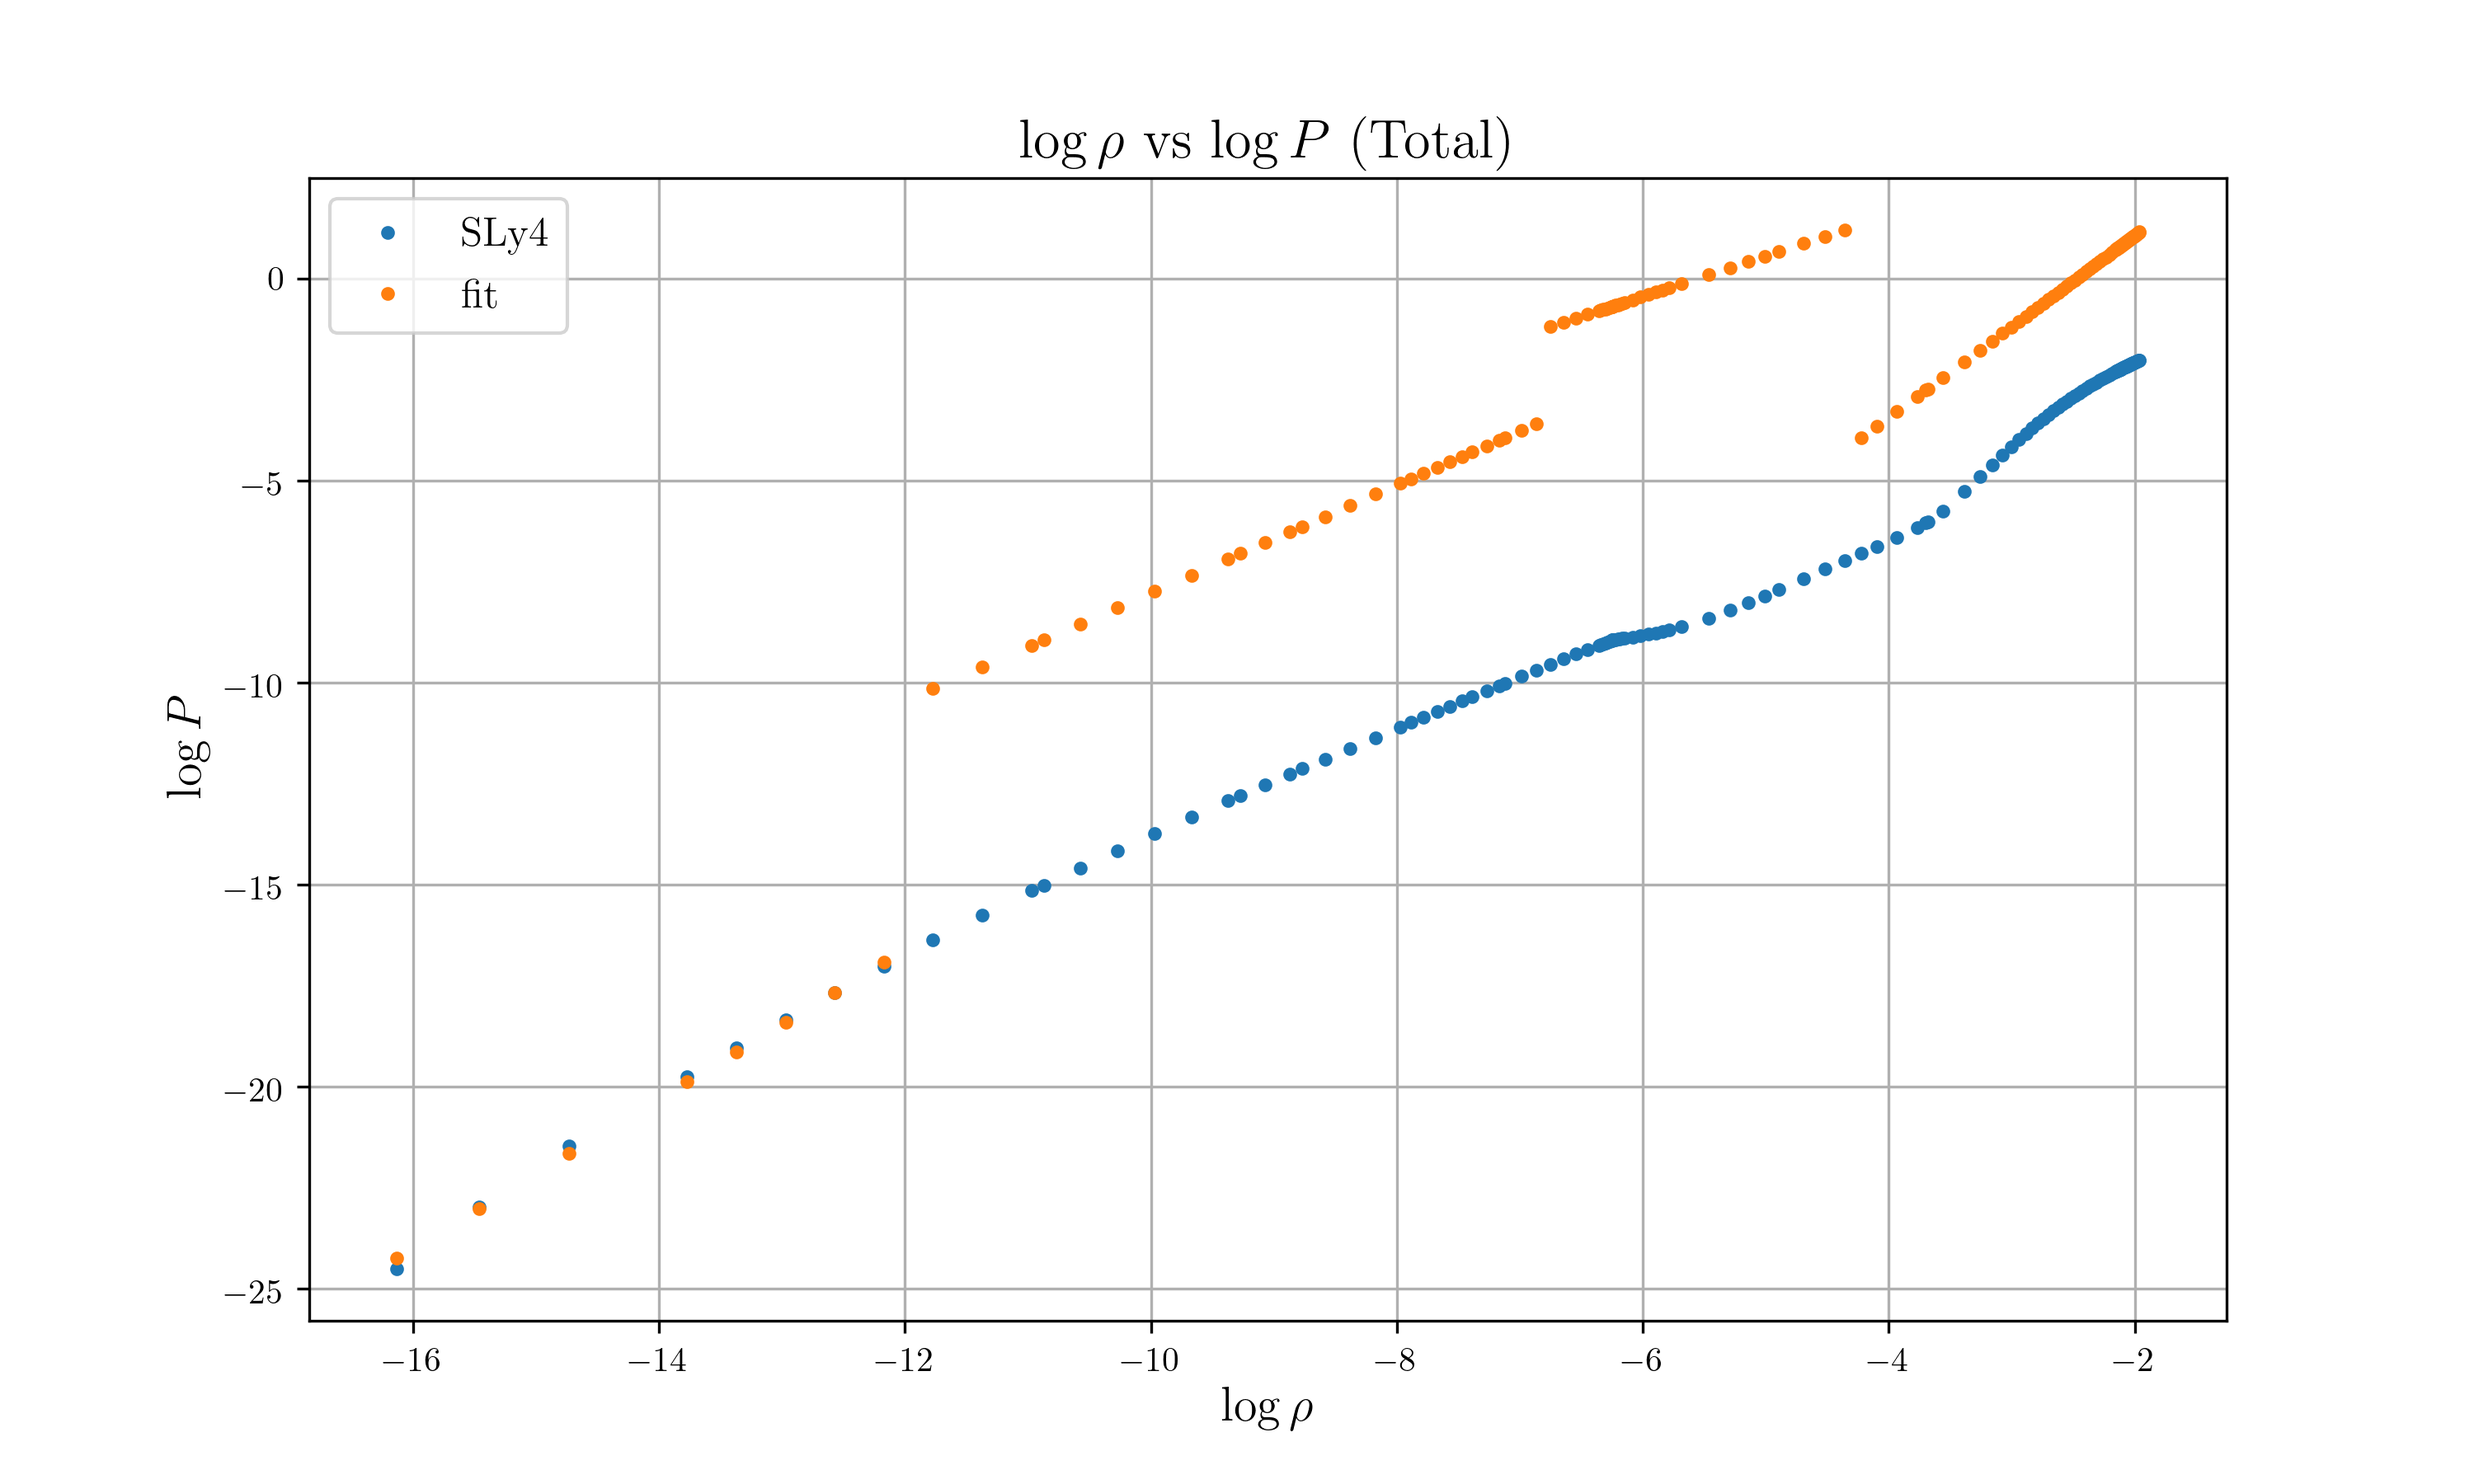
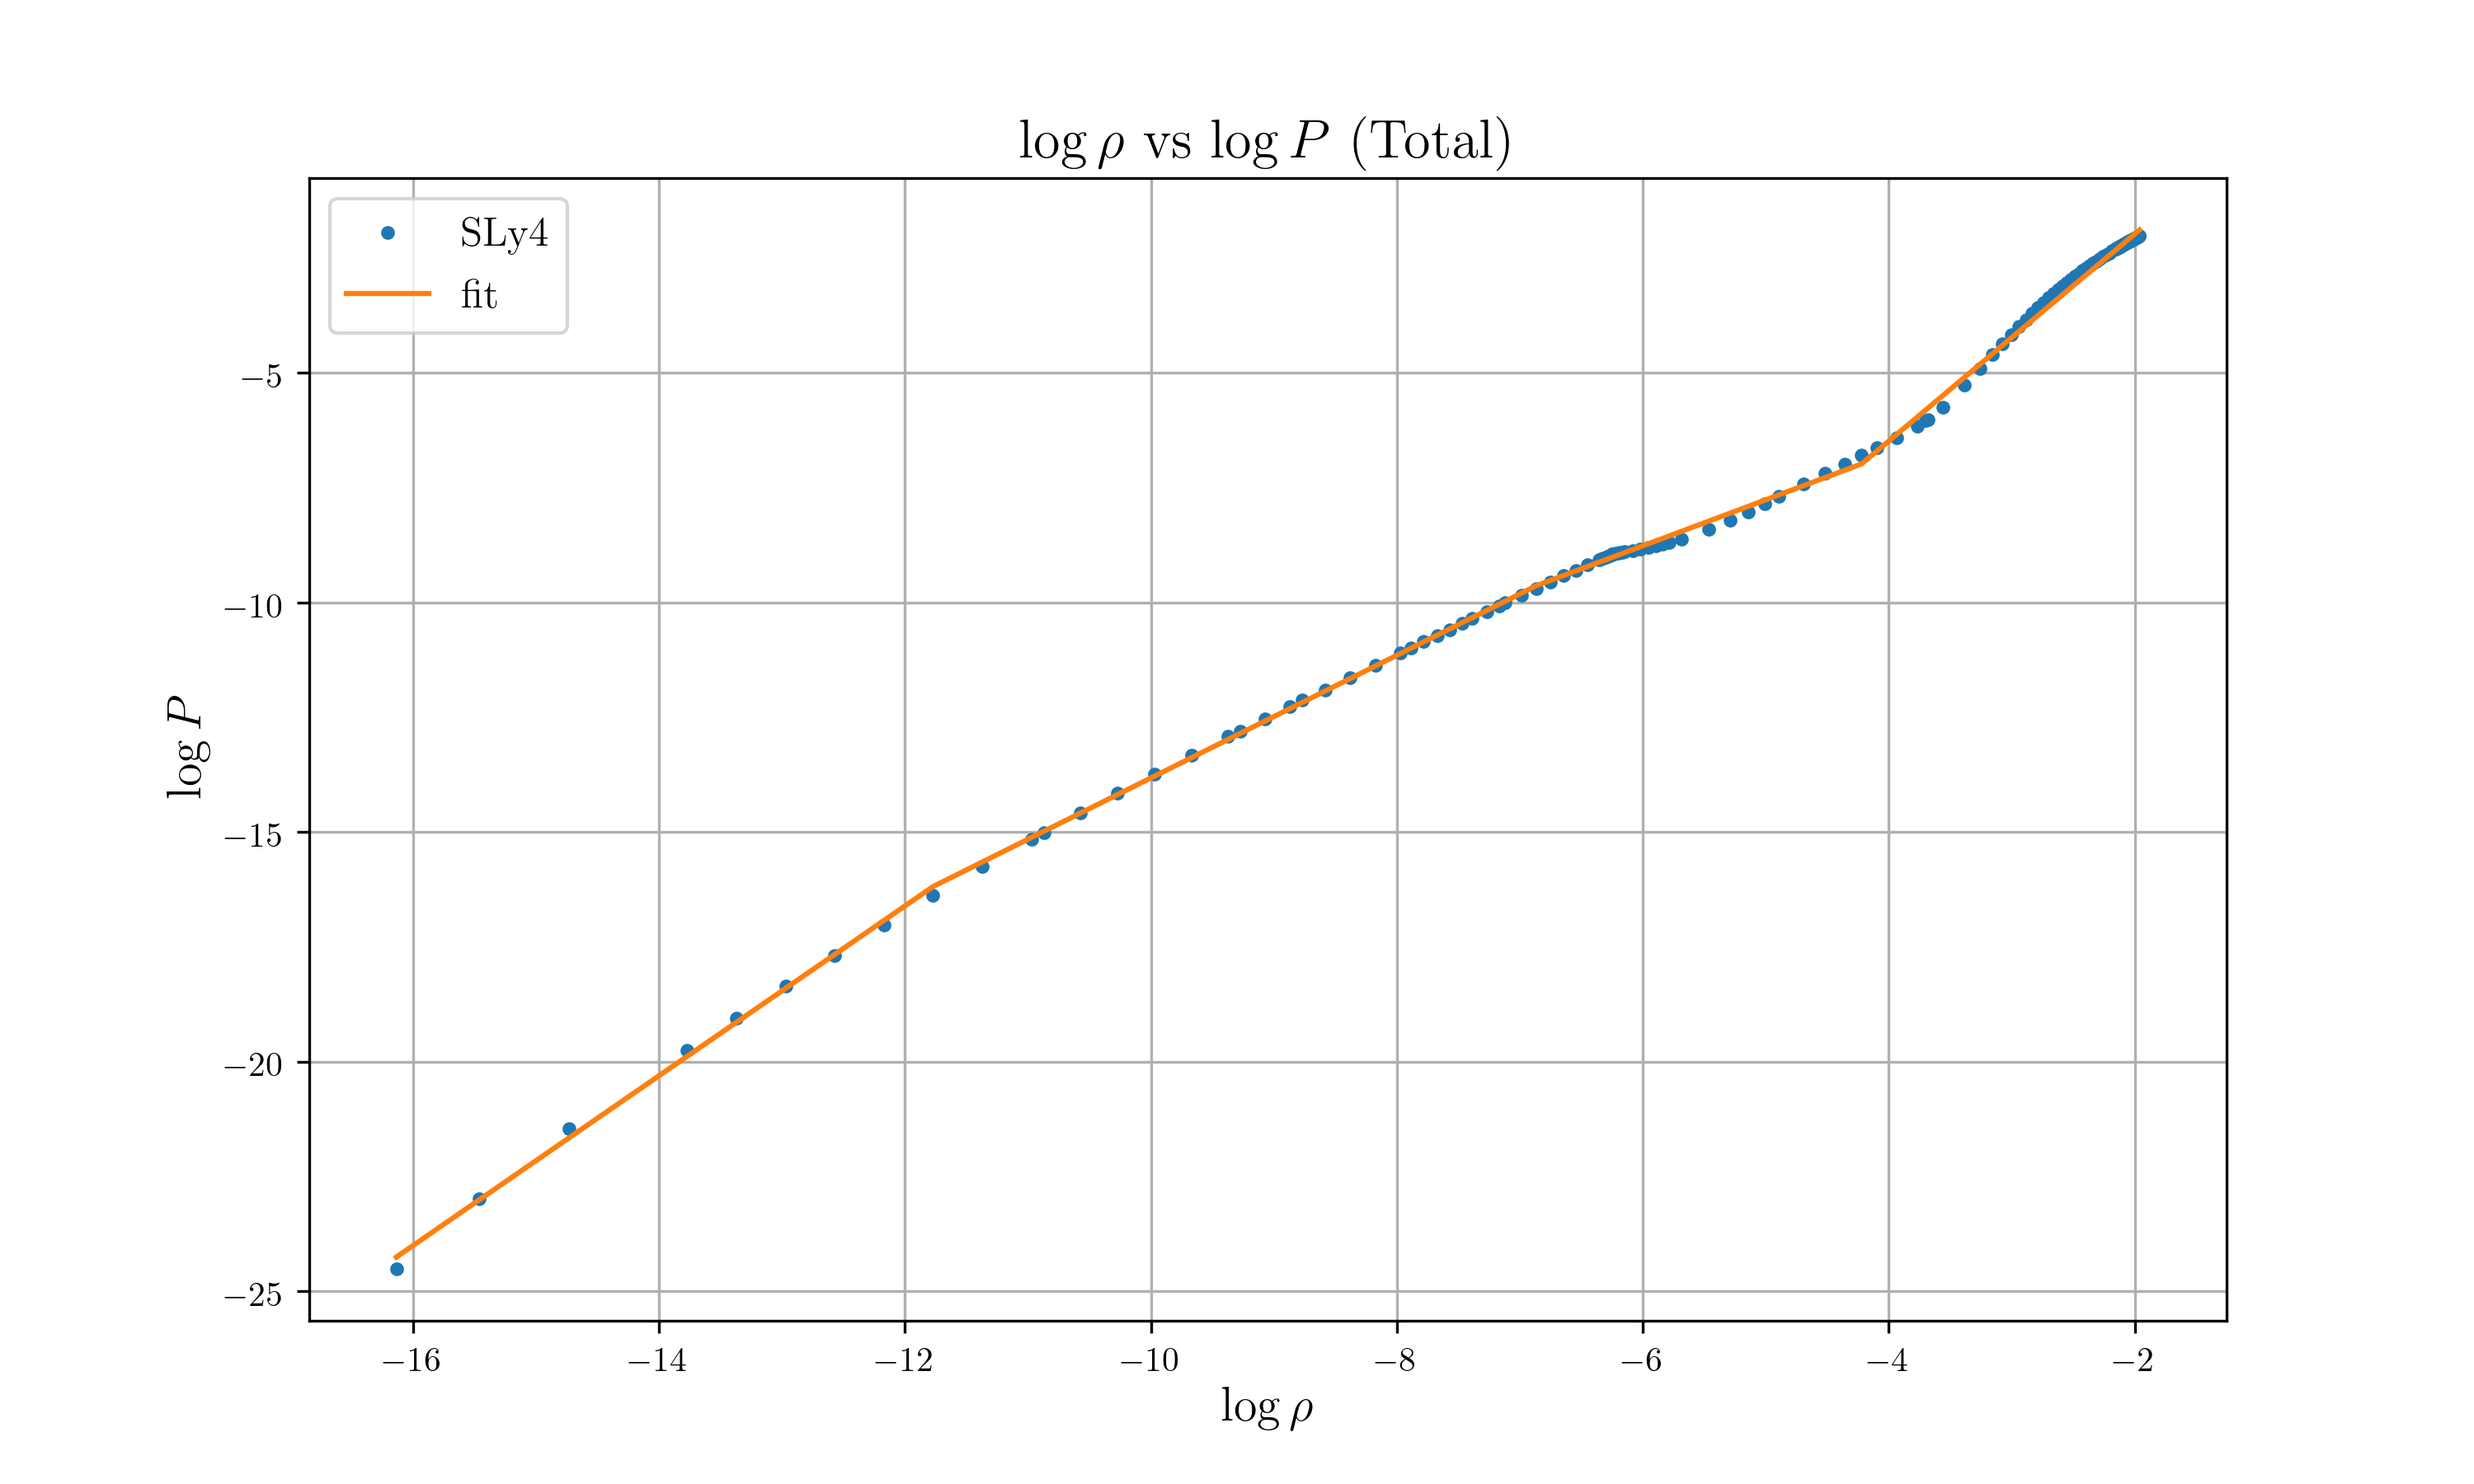
Complete 4 pieces of SLy4

diff --git a/src/bin/fit_sly4.rs b/src/bin/fit_sly4.rs
@@ -6,7 +6,7 @@ use peroxide::*;
 use NSCool::structure::eos::{load_table, EOSModel};
 
 const RHO: [f64; 3] = [-11.7720, -6.8641, -4.2205];
-const KG: [(f64, f64); 4] = [(373981.6209505603, 1.8485919406272393), (373987.6615998343, 1.3354533321504343), (373989.94705683185, 1.002496127574712), (373984.6622809677, 2.2546726199881117)];
+const KG: [(f64, f64); 4] = [(373981.6209505603, 1.8485919406272393), (0.34056576252855564, 1.3354533321504343), (0.0017649970672523633, 1.002496127574712), (340.0320488034904, 2.2546726199881117)];
 
 #[allow(non_snake_case)]
 fn main() {
@@ -41,7 +41,7 @@ fn main() {
         .set_ylabel("$\\log P$")
         .set_path("figure/SLy/sly4_fit_bruteforce.png")
         .set_legend(vec!["SLy4", "fit"])
-        .set_marker(vec![Point, Point])
+        .set_marker(vec![Point, Line])
         .savefig()
         .expect("Can't draw a plot");
 }
